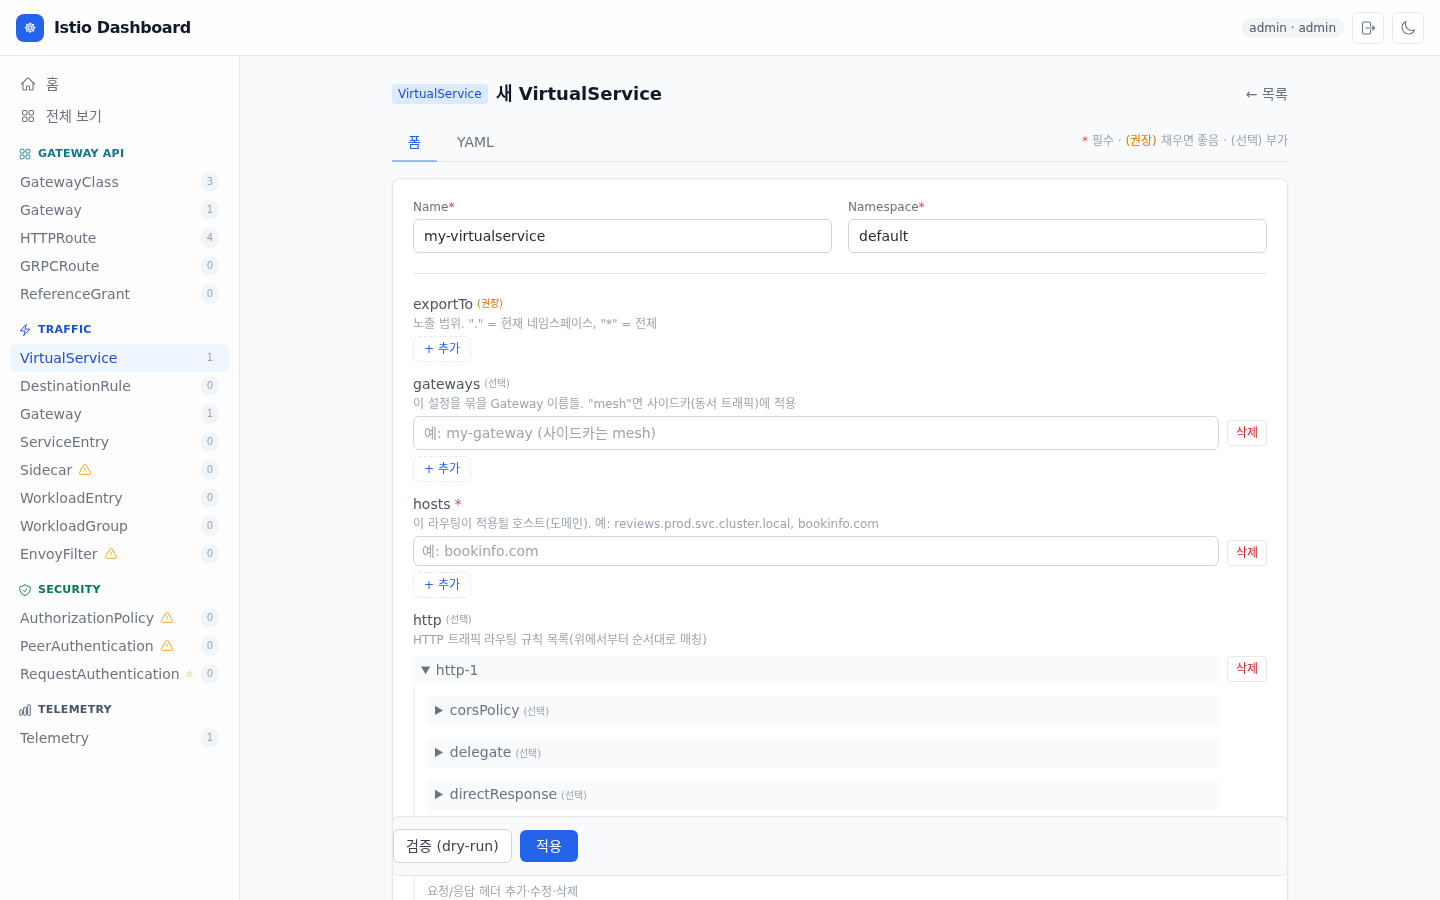
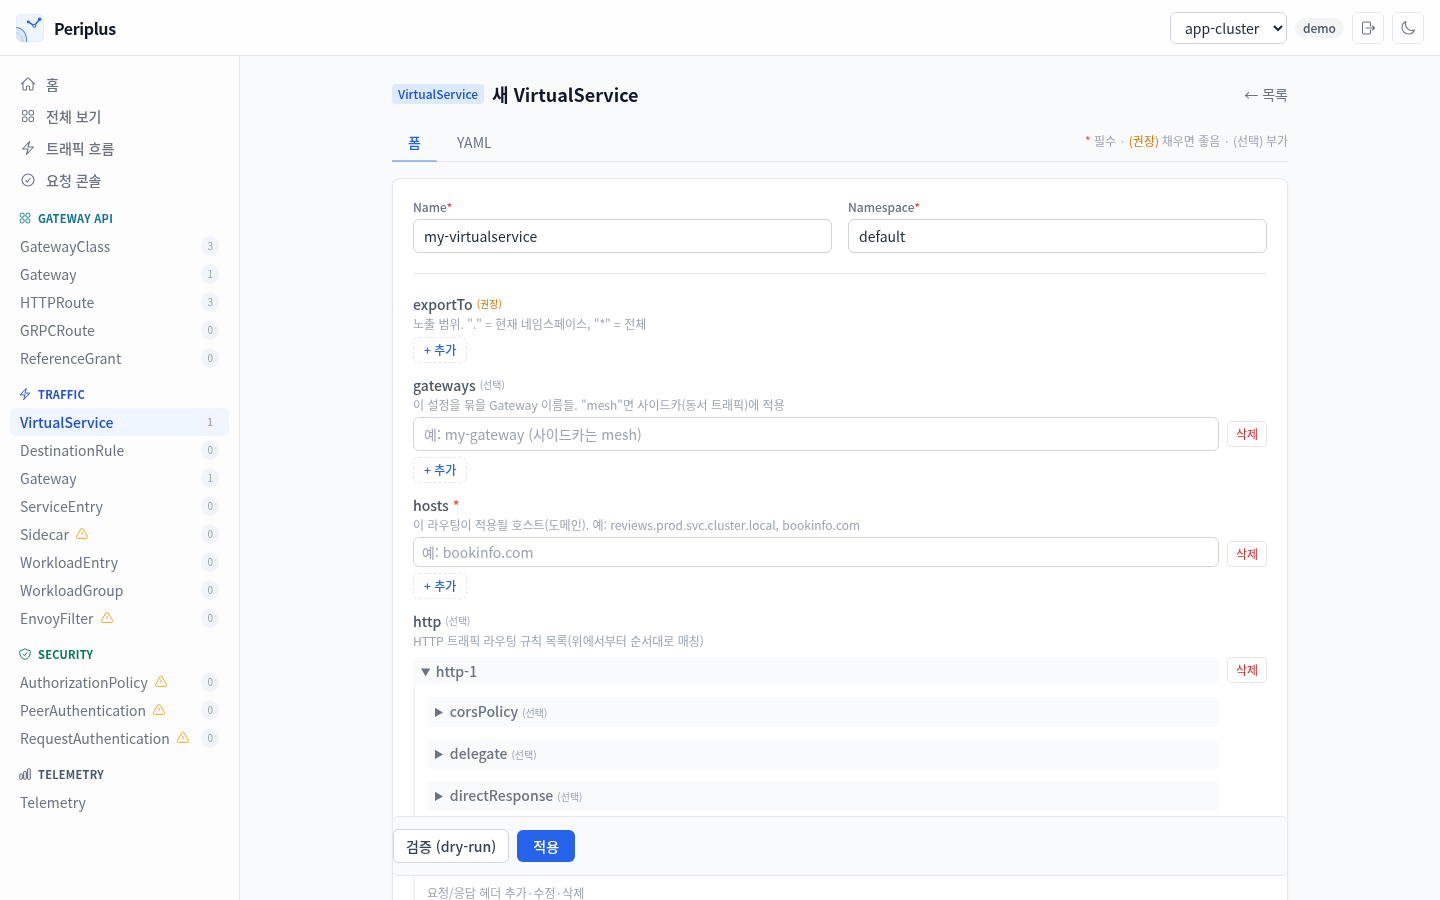
예시·스크린샷에서 사업명 제거 + 흐름도 출발 노드 정렬
- 요청 콘솔 URL 플레이스홀더를 중립 예시(shop.example.com)로 교체
- 사업명이 찍힌 스크린샷(흐름도·요청 콘솔) 재촬영, 구 브랜딩이 남아 있던
  리소스 폼 스크린샷도 함께 교체
- 흐름도 출발(External/Mesh) 노드가 라우트가 많으면 캔버스 세로 중앙으로
  밀려 화면 밖으로 나가던 문제 수정 — 위쪽 정렬로 고정

diff --git a/web/src/pages/FlowMap.tsx b/web/src/pages/FlowMap.tsx
@@ -336,7 +336,7 @@ function FlowSection({
           })}
         </svg>
         <div className="relative flex items-start gap-16">
-          <DraggableNode {...nodeProps('src')} className="w-24 shrink-0 self-center">
+          <DraggableNode {...nodeProps('src')} className="w-24 shrink-0 self-start pt-1">
             <div className="flex flex-col items-center">
               <span className="flex h-14 w-14 items-center justify-center rounded-2xl bg-accent text-white shadow-lg" style={{ boxShadow: '0 8px 24px rgb(var(--accent) / 0.35)' }}>
                 <Icon name={srcIcon} className="h-6 w-6" />

diff --git a/internal/assets/dist/index.html b/internal/assets/dist/index.html
@@ -7,8 +7,8 @@
     <title>Periplus</title>
     <!-- 페인트 전에 저장된 테마 적용 (CSP script-src 'self' 유지를 위해 외부 파일) -->
     <script src="/theme-init.js"></script>
-    <script type="module" crossorigin src="/assets/index-B0FJZ4B7.js"></script>
-    <link rel="stylesheet" crossorigin href="/assets/index-ColRhxxQ.css">
+    <script type="module" crossorigin src="/assets/index-DiQKvV0m.js"></script>
+    <link rel="stylesheet" crossorigin href="/assets/index-qyRhT72X.css">
   </head>
   <body>
     <div id="root"></div>

diff --git a/web/src/pages/RouteCheck.tsx b/web/src/pages/RouteCheck.tsx
@@ -98,7 +98,7 @@ export function RouteCheck() {
           value={url}
           onChange={(e) => setUrl(e.target.value)}
           onKeyDown={(e) => { if (e.key === 'Enter') void check() }}
-          placeholder="http://petclinic.kotra.com/api/owners"
+          placeholder="http://shop.example.com/api/orders"
           autoComplete="off"
           spellCheck={false}
           className="input-base min-w-[16rem] flex-1 font-mono text-sm"
